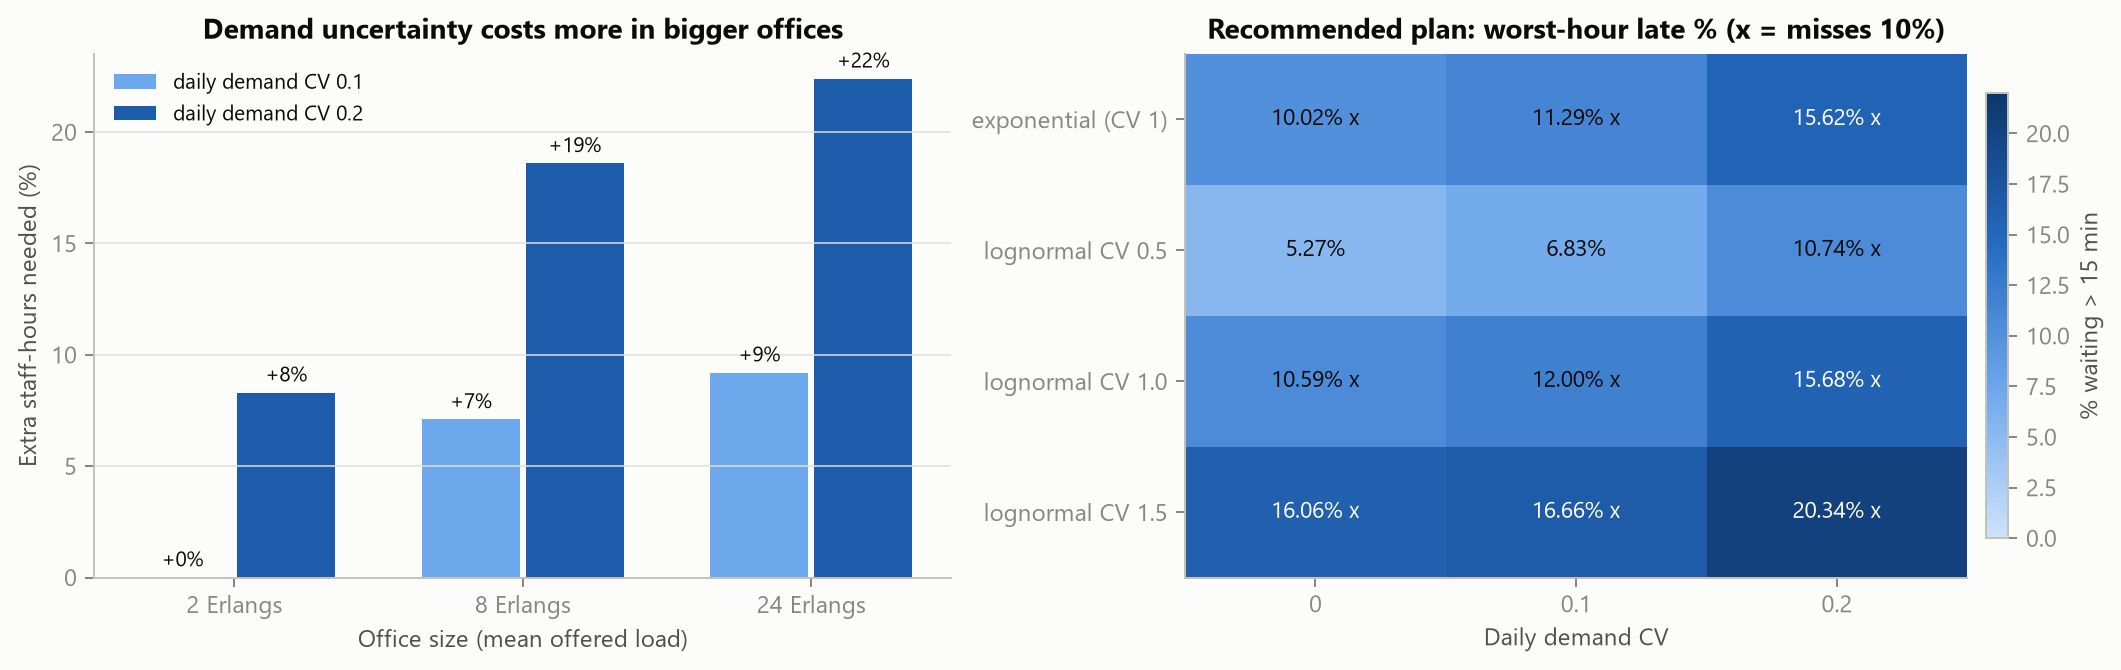
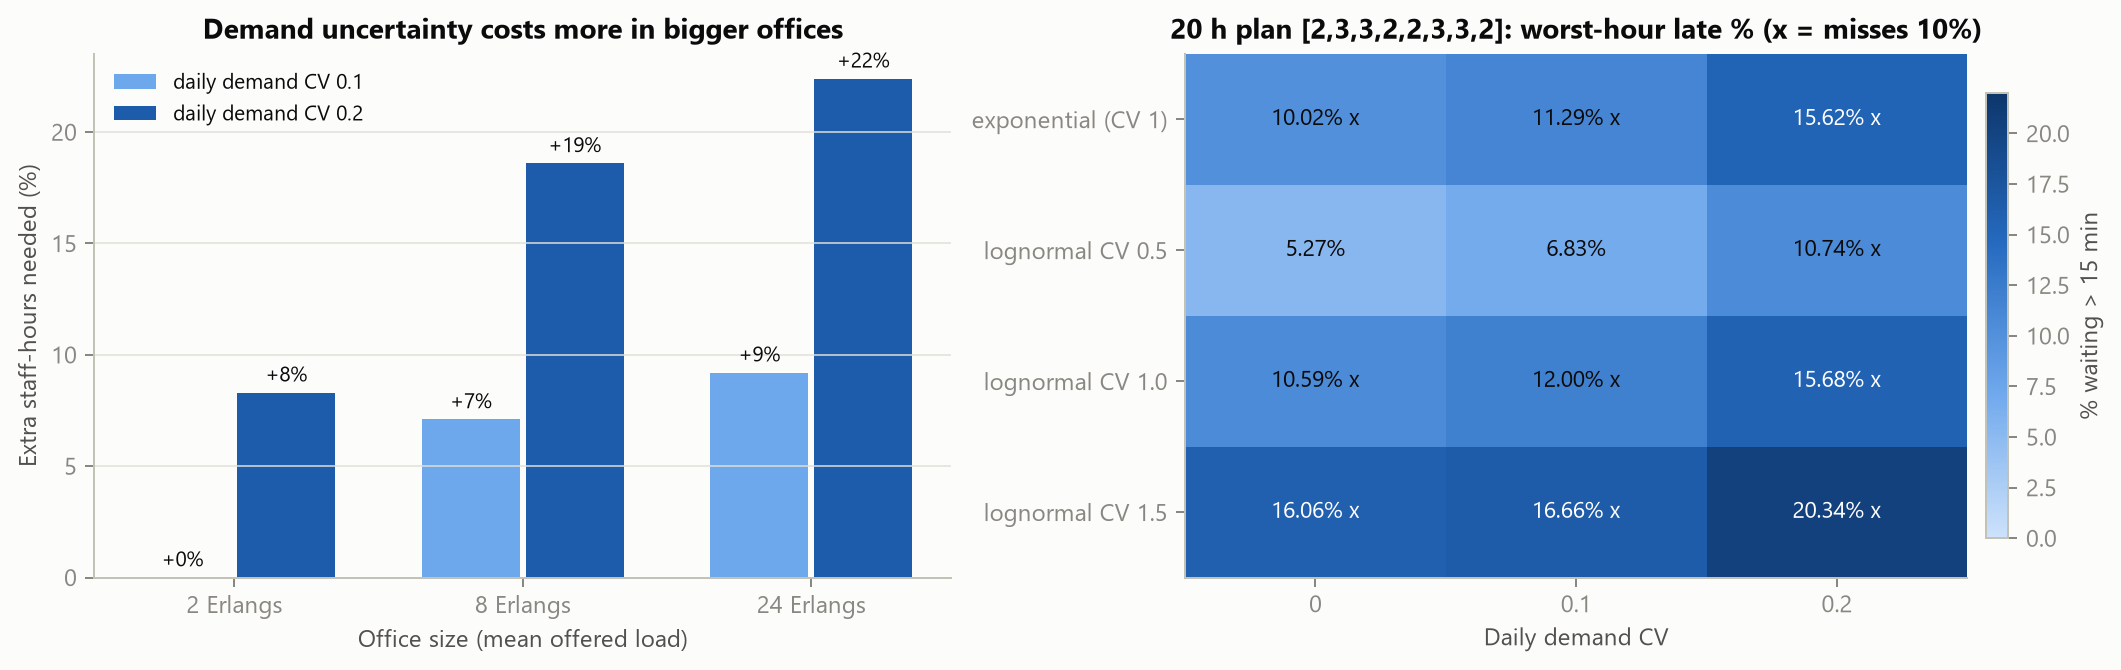
Optimizer: 300-day confirmation, wider shortlist, report statistical ties
- CONFIRM_REPLICATIONS 30 -> 300: P90 CIs shrink from about +/-4 to +/-1 min;
  the 18h plan was misreported as missing the target (15.5 vs true 13.4)
- CONFIRM_TOP_K 10 -> 30: the 10-plan shortlist missed the lowest-cost plan
- Report finalists whose paired 95% CI on the cost difference includes 0
- Recommendation is now [3,3,3,2,2,3,3,2] (21h) with five 20-21h plans tied
- Correct README and REPORT: the earlier 20h recommendation was not caused
  by noise; the misleading part was the reported P90s and trade-off table

Changed region(s): [[0.529, 0.0299, 0.9335, 0.0597]]

diff --git a/python/optimizer.py b/python/optimizer.py
@@ -46,8 +46,12 @@ MIN_WINDOWS_PER_SLOT = 2
 MAX_WINDOWS_PER_SLOT = 4
 MAX_TOTAL_STAFF_HOURS = 28
 NUM_REPLICATIONS = 10       # Screening replications per configuration
-CONFIRM_REPLICATIONS = 30   # Replications for finalists and reported scenarios
-CONFIRM_TOP_K = 10          # Finalists re-evaluated in the second stage
+# Replications for finalists and every reported number. With 30 days the P90
+# CI was about +/-4 min, enough to misreport a plan at 13.4 min as missing a
+# 15-min target; 300 days narrows it to about +/-1 min (see research/REPORT.md).
+CONFIRM_REPLICATIONS = 300
+CONFIRM_TOP_K = 30          # Finalists re-evaluated in the second stage (the cost
+                            # surface is flat near the optimum, so shortlist widely)
 MEAN_SERVICE_TIME = 8.0     # minutes
 P90_TARGET = 15.0           # minutes
 STRESS_FACTORS = (0.9, 1.0, 1.1, 1.2)   # Demand multipliers for robustness checks
@@ -114,6 +118,8 @@ class SimulationResult:
     daily_arrivals: list = field(default_factory=list)      # [rep][slot] arrival counts
     daily_late: list = field(default_factory=list)          # [rep][slot] late counts
     mean_service: float = 0.0
+    # (result, mean cost difference, 95% CI) for finalists statistically tied with this one
+    tied_alternatives: list = field(default_factory=list)
 
 
 # ============================================================================
@@ -459,6 +465,22 @@ def grid_search_optimize(
             best_cost = result.cost_score
             best_result = result
 
+    # Finalists share seeds (common random numbers), so compare daily costs
+    # pairwise: an alternative whose 95% CI on the cost difference includes 0
+    # cannot be told apart from the winner with this many replications
+    if best_result is not None:
+        def daily_cost(r):
+            return [wait_weight * w + staff_weight * r.total_staff_hours
+                    for w in r.daily_mean_waits]
+        best_daily = daily_cost(best_result)
+        for result in confirmed:
+            if result is best_result or not (p90_target is None or result.p90_wait <= p90_target):
+                continue
+            diffs = [a - b for a, b in zip(daily_cost(result), best_daily)]
+            low, high = compute_confidence_interval(diffs)
+            if low <= 0:
+                best_result.tied_alternatives.append((result, sum(diffs) / len(diffs), (low, high)))
+
     if verbose:
         print(f"Optimization complete. Best cost: {best_cost:.2f}")
 
@@ -708,6 +730,10 @@ def generate_recommendation(scenarios: dict, stress: Optional[dict] = None,
         report.append(f"    Expected P90 wait: {optimized.p90_wait:.1f} minutes "
                       f"(95% CI {optimized.p90_wait_ci[0]:.1f}-{optimized.p90_wait_ci[1]:.1f})")
         report.append(f"    Total daily staff-hours: {optimized.total_staff_hours}")
+        for alt, diff, (low, high) in optimized.tied_alternatives:
+            report.append(f"    Statistically tied: {list(alt.staffing)} "
+                          f"({alt.total_staff_hours} h, cost {diff:+.2f}, "
+                          f"95% CI {low:+.2f} to {high:+.2f})")
 
         if stress and 'optimized' in stress:
             holds = [f for f, r in sorted(stress['optimized'].items())

diff --git a/python/test_validation.py b/python/test_validation.py
@@ -52,6 +52,14 @@ class TestErlangC(unittest.TestCase):
             self.assertLessEqual(s, optimizer.MAX_WINDOWS_PER_SLOT)
 
 
+class TestOptimizerSampleSizes(unittest.TestCase):
+    def test_confirmation_is_large_enough(self):
+        # 30 days gave P90 CIs of about +/-4 min and misreported plans near the
+        # 15-min target; keep confirmation in the hundreds (research/REPORT.md)
+        self.assertGreaterEqual(optimizer.CONFIRM_REPLICATIONS, 200)
+        self.assertGreaterEqual(optimizer.CONFIRM_TOP_K, 30)
+
+
 class TestConfidenceInterval(unittest.TestCase):
     def test_t_values(self):
         self.assertAlmostEqual(t_critical_95(2), 4.303)

diff --git a/research/figures.py b/research/figures.py
@@ -196,7 +196,7 @@ def fig_sensitivity():
     ax2.set_yticks(range(len(svc)))
     ax2.set_yticklabels(["exponential (CV 1)", "lognormal CV 0.5", "lognormal CV 1.0",
                          "lognormal CV 1.5"])
-    ax2.set_title("Recommended plan: worst-hour late % (x = misses 10%)")
+    ax2.set_title("20 h plan [2,3,3,2,2,3,3,2]: worst-hour late % (x = misses 10%)")
     ax2.grid(False)
     fig.colorbar(im, ax=ax2, shrink=0.85, pad=0.02).set_label("% waiting > 15 min",
                                                               color=INK_2)

diff --git a/research/experiments.py b/research/experiments.py
@@ -33,7 +33,9 @@ VALID_SEED = 200_000   # Third seed block: validates a screened choice before it
 THRESHOLD = 15.0     # minutes
 ALPHA = 0.10         # P(W > THRESHOLD | arrival hour) target
 OFFICE_S = 8.0
-RECOMMENDED = [2, 3, 3, 2, 2, 3, 3, 2]   # optimizer.py's cost-weighted choice
+# optimizer.py's cost-weighted choice when E2 was designed; with 300-day
+# confirmation it is one of several statistically tied 20-21 h plans
+RECOMMENDED = [2, 3, 3, 2, 2, 3, 3, 2]
 
 SERVICE_TIMES = [4.0, 8.0, 16.0, 32.0]
 AMPLITUDES = [0.3, 0.6]

diff --git a/README.md b/README.md
@@ -207,62 +207,71 @@ The optimizer compares three staffing policies:
 | **C. Optimized** | Cost-minimized under the 15-minute P90 constraint, found by simulation |
 
 ### Example Output
-Real output from `python optimizer.py --scenario-analysis`, with default arrival rates, 30 replications, and seeds 42–71:
+Real output from `python optimizer.py --scenario-analysis`, with default arrival rates, 300 replications, and seeds 42–341:
 ```
 [A] Flat Staffing (3 windows/slot)
     Staffing: [3, 3, 3, 3, 3, 3, 3, 3]
-    Mean wait: 1.50 min  (95% CI: 0.97-2.03)
-    P90 wait:  5.88 min  (95% CI: 3.84-7.91)
-    Staff-hours: 24  |  Overtime: 8.1 min  |  n=30 replications
+    Mean wait: 1.39 min  (95% CI: 1.24-1.53)
+    P90 wait:  5.29 min  (95% CI: 4.74-5.85)
+    Staff-hours: 24  |  Overtime: 8.6 min  |  n=300 replications
 
 [B] SIPP / Erlang-C (steady-state P90 <= 15 min each hour)
     Staffing: [3, 3, 3, 2, 2, 3, 3, 3]
-    Mean wait: 2.20 min  (95% CI: 1.35-3.04)
-    P90 wait:  7.97 min  (95% CI: 5.05-10.90)
-    Staff-hours: 22  |  Overtime: 8.1 min  |  n=30 replications
+    Mean wait: 1.77 min  (95% CI: 1.59-1.94)
+    P90 wait:  6.59 min  (95% CI: 5.97-7.21)
+    Staff-hours: 22  |  Overtime: 8.6 min  |  n=300 replications
 
 [C] Optimized (P90 <= 15 min target)
-    Staffing: [2, 3, 3, 2, 2, 3, 3, 2]
-    Mean wait: 3.10 min  (95% CI: 1.97-4.22)
-    P90 wait:  10.96 min  (95% CI: 7.42-14.49)
-    Staff-hours: 20  |  Overtime: 11.2 min  |  n=30 replications
+    Staffing: [3, 3, 3, 2, 2, 3, 3, 2]
+    Mean wait: 2.24 min  (95% CI: 2.03-2.45)
+    P90 wait:  8.20 min  (95% CI: 7.45-8.95)
+    Staff-hours: 21  |  Overtime: 11.9 min  |  n=300 replications
 
 ============================================================
 ROBUSTNESS: P90 wait (min) if demand differs from forecast
 ============================================================
   Scenario      90% demand   100% demand   110% demand   120% demand
-  Flat              4.8 ok        5.9 ok        7.0 ok        9.6 ok
-  Sipp              6.1 ok        8.0 ok        9.2 ok       11.8 ok
-  Optimized         8.4 ok       11.0 ok       12.5 ok     15.2 MISS
+  Flat              3.8 ok        5.3 ok        6.9 ok        9.1 ok
+  Sipp              4.8 ok        6.6 ok        8.4 ok       10.9 ok
+  Optimized         6.1 ok        8.2 ok       10.7 ok       13.6 ok
 
 >>> RECOMMENDATION:
-    Adopt optimized staffing schedule: [2, 3, 3, 2, 2, 3, 3, 2]
-    Peak staffing periods: 9-10AM, 10-11AM, 1-2PM, 2-3PM
-    Expected P90 wait: 11.0 minutes (95% CI 7.4-14.5)
-    Total daily staff-hours: 20
-    Meets the P90 target up to 110% of forecast demand
-    If demand runs +20%: add one window at 3-4PM (P90 13.4 min)
+    Adopt optimized staffing schedule: [3, 3, 3, 2, 2, 3, 3, 2]
+    Peak staffing periods: 8-9AM, 9-10AM, 10-11AM, 1-2PM, 2-3PM
+    Expected P90 wait: 8.2 minutes (95% CI 7.5-8.9)
+    Total daily staff-hours: 21
+    Statistically tied: [3, 3, 2, 2, 2, 3, 3, 2] (20 h, cost +0.03, 95% CI -0.07 to +0.12)
+    Statistically tied: [2, 3, 3, 2, 2, 3, 3, 2] (20 h, cost +0.10, 95% CI -0.00 to +0.19)
+    Statistically tied: [3, 3, 2, 2, 2, 3, 3, 3] (21 h, cost +0.05, 95% CI -0.07 to +0.18)
+    Statistically tied: [2, 4, 2, 2, 2, 3, 3, 2] (20 h, cost +0.02, 95% CI -0.09 to +0.13)
+    Statistically tied: [2, 3, 3, 2, 2, 3, 3, 3] (21 h, cost +0.12, 95% CI -0.00 to +0.25)
+    Meets the P90 target up to 120% of forecast demand
 ```
 
 ### Reading the Results
-- **Staffing should lag demand.** Demand falls at 10AM (15 → 10 citizens/hour), but the optimized plan keeps 3 windows until 11AM to clear the backlog from the 9AM peak. Per-hour formulas like SIPP can't see this carryover between hours (Green, Kolesar & Soares, 2001).
-- **The office opens empty.** SIPP assumes each hour is already at steady state, so it staffs 8AM as if a queue were waiting. Simulation knows the day starts with no queue, so 2 windows are enough there.
-- **The trade-off:** relative to SIPP, the optimized plan saves 2 staff-hours per day for about 3 extra minutes of P90 wait. It stays within the 15-minute target, though the upper end of its 95% CI (14.5 min) is close to the limit.
-- **Forecast risk:** the optimized plan still meets the target if demand runs 10% above forecast, but not at +20%. In that case, one extra window at 3–4PM restores it. SIPP and Flat both absorb +20% because they carry 2–4 more staff-hours. Staffing to a single point forecast is a known weakness (Whitt, 2006), so the stress test is part of every scenario run.
+- **The best plan uses 20 or 21 staff-hours, and six plans are tied.** With the default weights (1 per minute of mean wait, 0.5 per staff-hour), the cost curve is flat there: an extra staff-hour cuts mean wait by about 0.5–0.6 minutes, almost exactly its 0.5 price. The optimizer reports every finalist whose paired 95% CI on the cost difference includes zero, so read the output as "any of these". To choose among them:
+  - pick a 20-hour plan to save labor;
+  - pick the 21-hour plan to protect against busier-than-forecast days. It still meets the target at +20% demand, where the 20-hour plans do not.
+- **Staffing should lag demand.** Demand falls at 10AM (15 → 10 citizens/hour), but the recommended plan keeps 3 windows until 11AM to clear the 9AM backlog. Per-hour formulas like SIPP can't see this carryover between hours (Green, Kolesar & Soares, 2001).
+- **The trade-off:** relative to SIPP, the recommended plan saves 1 staff-hour per day for about 1.6 extra minutes of P90 wait (8.2 vs 6.6 min), well within the 15-minute target.
+- **Forecast risk:** the recommended plan meets the target even with 20% more demand than forecast. Staffing to a single point forecast is a known weakness (Whitt, 2006), so the stress test is part of every scenario run.
 
 ### Cost vs Service Trade-off
-The weighted cost picks one plan, but the real decision is how many staff-hours to fund. `--frontier` shows the best plan found for each budget. The top 10 plans per budget from screening are re-run with 30 replications, and the scenario plans compete too:
+The weighted cost picks among plans, but the real decision is how many staff-hours to fund. `--frontier` shows the best plan found for each budget. The top 10 plans per budget from screening are re-run with 300 replications, and the scenario plans compete too:
 
 | Staff-hours | P90 wait (95% CI) | Mean wait | Staffing |
 |---|---|---|---|
-| 18 | 15.5 (11.0–20.0) | 4.7 | [2, 3, 2, 2, 2, 2, 3, 2] (misses target) |
-| 19 | 13.3 (9.0–17.6) | 4.0 | [2, 3, 3, 2, 2, 2, 3, 2] |
-| **20** | **11.0 (7.4–14.5)** | **3.1** | **[2, 3, 3, 2, 2, 3, 3, 2]** (optimized) |
-| 21 | 9.4 (6.3–12.5) | 2.6 | [3, 3, 3, 2, 2, 3, 3, 2] |
-| 22 | 8.0 (5.0–10.9) | 2.2 | [3, 3, 3, 2, 2, 3, 3, 3] (SIPP) |
-| 24 | 5.6 (3.5–7.7) | 1.5 | [3, 4, 3, 3, 2, 3, 3, 3] |
+| 17 | 19.6 (18.2–21.0) | 6.6 | [2, 2, 2, 2, 2, 2, 3, 2] (misses target) |
+| 18 | 13.5 (12.5–14.5) | 4.2 | [2, 3, 2, 2, 2, 2, 3, 2] |
+| 19 | 11.7 (10.8–12.6) | 3.4 | [2, 3, 2, 2, 2, 3, 3, 2] |
+| 20 | 10.0 (9.2–10.8) | 2.8 | [2, 3, 3, 2, 2, 3, 3, 2] |
+| **21** | **8.2 (7.5–8.9)** | **2.2** | **[3, 3, 3, 2, 2, 3, 3, 2]** (optimized) |
+| 22 | 6.6 (6.0–7.2) | 1.8 | [3, 3, 3, 2, 2, 3, 3, 3] (SIPP) |
+| 24 | 4.5 (4.0–5.0) | 1.2 | [3, 4, 3, 2, 3, 3, 3, 3] |
 
-19 staff-hours is the cheapest budget that meets the target on average, but its CI extends well past 15 minutes. At 20, the whole CI of the best plan found is under the target.
+18 staff-hours is the cheapest budget that meets the 15-minute target, with its whole CI below it. Under an hour-by-hour target (every hour at most 10% of arrivals waiting over 15 minutes), the answer is 21 ([research/REPORT.md](research/REPORT.md) §5.4).
+
+An earlier version of this table used 30 replications. That gave CIs of ±4 minutes and wrongly showed the 18-hour plan missing the target (15.5 minutes). That version also shortlisted only 10 finalists, which missed the tied 21-hour optimum.
 
 ## Technical Details
 
@@ -277,12 +286,13 @@ The weighted cost picks one plan, but the real decision is how many staff-hours 
 ### Optimization (Python)
 - **Method:** Two-stage exhaustive grid search
   1. Screen all 6,404 feasible plans with 10 replications each.
-  2. Re-evaluate the 10 cheapest plans whose P90 confidence interval could meet the target, using 30 replications each, and pick the winner from those.
+  2. Re-evaluate the 30 cheapest plans whose P90 confidence interval could meet the target, using 300 replications each, and pick the winner from those.
+  3. Report every finalist whose paired 95% CI on the cost difference from the winner includes zero as statistically tied.
 - **Statistical Handling:** 95% confidence intervals with Student-t critical values that match the number of replications
 - **Performance:** all replications of a plan run in one simulator process, and plans are evaluated in parallel
 - **Analytical baseline:** Erlang-C (M/M/c) formulas for the SIPP scenario
 - **Robustness:** every scenario is re-simulated with arrival rates at 90–120% of forecast, on the same seeds. If the optimized plan misses the target, the single extra window that best restores it is reported.
-- **Trade-off curve:** best P90 per staff-hour budget, re-simulated with 30 replications so noisy screening winners aren't reported as the best
+- **Trade-off curve:** best P90 per staff-hour budget, re-simulated with 300 replications so noisy screening winners aren't reported as the best
 
 ## Validation
 
@@ -312,7 +322,7 @@ python python/test_validation.py
 - Daily demand uncertainty costs up to 22% more staff in large offices.
 - The service-level definition alone moves this office's answer from 18 to 22 staff-hours.
 
-The study also found that the optimizer's 30-replication confirmation stage is too noisy to separate plans 2 staff-hours apart.
+The study also showed that 30 confirmation days gave P90 CIs of about ±4 minutes and misreported the 18-hour plan as missing the target. The optimizer now confirms with 300 days and reports statistical ties.
 
 ```bash
 python research/experiments.py --all && python research/figures.py

diff --git a/research/REPORT.md b/research/REPORT.md
@@ -138,7 +138,7 @@ Total SIPP excess (staff-hours summed over the 6 settings at each service time),
 ![Sensitivity](figures/fig4_sensitivity.png)
 
 **The office.** Service-time variability matters more than demand uncertainty.
-- The office's current recommended plan (`[2,3,3,2,2,3,3,2]`, 20 h, from the cost-weighted optimizer) has its worst hour at 10.0% under exponential service, already on the limit.
+- The 20 h plan `[2,3,3,2,2,3,3,2]` has its worst hour at 10.0% under exponential service, already on the limit. It was the optimizer's recommendation when these experiments ran, and it remains one of its statistically tied choices (§5.4).
 - With lognormal service at CV 1.5 that rises to 16.1%. With 10% demand uncertainty it rises only to 11.3%.
 - The staff-hours needed barely move (18–22 h across all 12 combinations) because staffing comes in whole windows.
 
@@ -171,7 +171,16 @@ This fits the theory. Poisson noise grows like √λ, while noise from an uncert
 
 **Selection bias.** Under D4, the cheapest plan in a 6,561-plan screen (20 h) **failed** on fresh seeds. Picking the minimum of thousands of noisy estimates favours lucky plans. After requiring each pick to also pass on an independent validation block (seeds 200000+), 3 candidates were rejected and the validated plan uses 21 h, which is the same staff-hours SGS found independently (the hour-by-hour split differs slightly).
 
-**Implication for CivicQ's own optimizer.** `python/optimizer.py` confirms its finalists with 30 days. That is too few: the 18 h plan's mean daily P90 is 13.4 min (1,000 days, CI 12.9–14.0), but it measured 15.5 on its 30 confirmation days (CI 11.0–20.0), so the optimizer rejected it and recommended 20 h.
+**Implication for CivicQ's own optimizer.** `python/optimizer.py` used to confirm its finalists with 30 days. That made its *reported numbers* unreliable. The 18 h plan's mean daily P90 is 13.4 min (1,000 days, CI 12.9–14.0), but on its 30 confirmation days it measured 15.5 (CI 11.0–20.0), so the trade-off table showed it missing the target.
+
+The recommendation itself was not an artifact of noise. The optimizer minimizes mean wait + 0.5 × staff-hours, and the 18 h plan loses on that cost at every sample size (13.17 vs 12.73 over 1,000 days).
+
+Fixing the check exposed a subtler problem. Near the optimum the cost surface is flat: six 20–21 h plans lie within about 0.1 cost units, so a single "best" plan is arbitrary. A 10-plan shortlist had also missed the lowest-cost one. The optimizer now:
+- confirms with 300 days;
+- shortlists 30 finalists;
+- reports every finalist whose paired 95% CI on the cost difference includes zero as statistically tied.
+
+It currently recommends `[3,3,3,2,2,3,3,2]` (21 h), with five 20–21 h plans tied.
 
 ## 6. Threats to validity
 - **Synthetic demand.** Arrival rates follow a stylized double-peak profile. There are no public arrival-count data for walk-in offices; the CA DMV data contain only waits.
